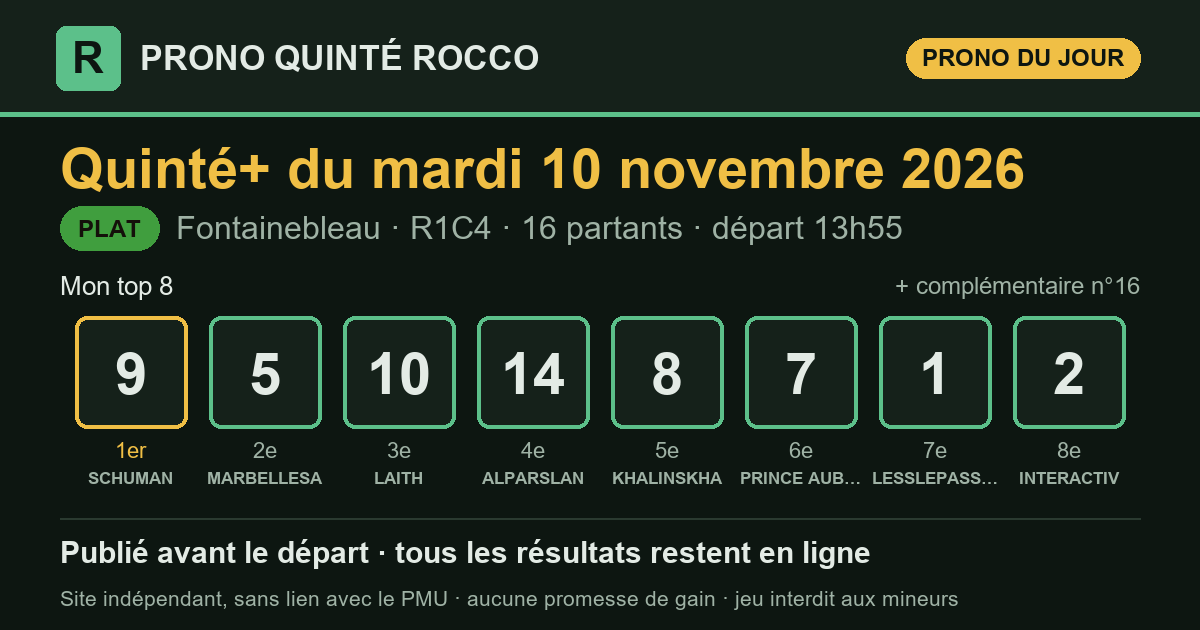
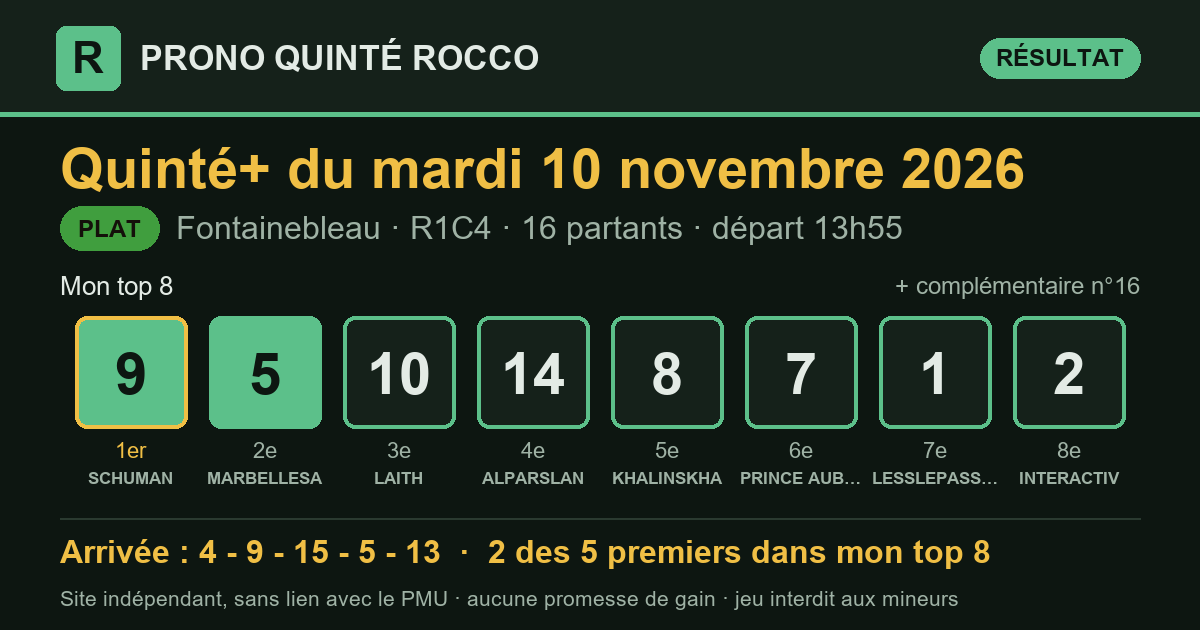
Résultat du Quinté+ 2026-11-10 Fontainebleau R1C4 — publié le 10/11/2026 14:07 (heure de Paris)

Changed region(s): [[0.0308, 0.8444, 0.8325, 0.9048], [0.0617, 0.4825, 0.2775, 0.6937], [0.74, 0.0603, 0.9558, 0.1508]]

diff --git a/index.html b/index.html
@@ -16,7 +16,7 @@
 <meta property="og:title" content="Pronostics Quinté+ et e-Super Pick5 du mardi 10 novembre 2026 — Prono Quinté Rocco">
 <meta property="og:description" content="Pronostics Quinté+ et e-Super Pick5 du jour : mes top 8, publiés avant le départ, puis tous les résultats et le rendement réel.">
 <meta property="og:url" content="https://prono-quinte-rocco.fr/">
-<meta property="og:image" content="https://prono-quinte-rocco.fr/partage/jour-2026-11-10.png?v=9b9553a0">
+<meta property="og:image" content="https://prono-quinte-rocco.fr/partage/jour-2026-11-10.png?v=c3132212">
 <meta property="og:image:type" content="image/png">
 <meta property="og:image:width" content="1200">
 <meta property="og:image:height" content="630">
@@ -32,7 +32,7 @@
 <div class="jeux j-quinte" role="navigation" aria-label="Choix du jeu"><a class="jeu jeu-quinte actif" href="index.html" aria-current="true">Quinté+</a><a class="jeu jeu-sp5" href="superpick5.html">e-Super Pick5<small>entre 17 h et 19 h</small></a></div>
 <main>
 <section class="une" aria-labelledby="t-jour">
-  <p class="surtitre">Quinté+ du jour</p>
+  <p class="surtitre">Dernier Quinté+</p>
   <h1 id="t-jour">Le prono du Quinté+, résultats compris</h1>
   <p class="chapo">Chaque matin, j'étudie les partants du Quinté+ avec le logiciel que
   j'ai conçu, selon ma propre méthode, qu'une intelligence artificielle m'aide à
@@ -43,10 +43,13 @@
   <p class="meta">Fontainebleau · <strong>R1C4</strong> · 16 partants · <span class="lisib">lisibilité <span class="note" aria-label="note 2 sur 5" title="lisibilité 2/5 : course ouverte"><i class="on"></i><i class="on"></i><i class=""></i><i class=""></i><i class=""></i></span> 2/5</span></p>
   <div class="zone-prono">
     <h3 class="zone-titre">Mon top 8</h3>
-    <ol class="partants" aria-label="Mon top 8"><li><span class="rang">1<sup>er</sup></span><span class="tapis ">9</span><span class="nom">SCHUMAN</span></li><li><span class="rang">2<sup>e</sup></span><span class="tapis ">5</span><span class="nom">MARBELLESA</span></li><li><span class="rang">3<sup>e</sup></span><span class="tapis ">10</span><span class="nom">LAITH</span></li><li><span class="rang">4<sup>e</sup></span><span class="tapis ">14</span><span class="nom">ALPARSLAN</span></li><li><span class="rang">5<sup>e</sup></span><span class="tapis ">8</span><span class="nom">KHALINSKHA</span></li><li><span class="rang">6<sup>e</sup></span><span class="tapis ">7</span><span class="nom">PRINCE AUBOIS</span></li><li><span class="rang">7<sup>e</sup></span><span class="tapis ">1</span><span class="nom">LESSLEPASSER</span></li><li><span class="rang">8<sup>e</sup></span><span class="tapis ">2</span><span class="nom">INTERACTIV</span></li><li><span class="rang">compl.</span><span class="tapis creux">16</span><span class="nom">FATA MORGANA</span></li></ol>
+    <ol class="partants" aria-label="Mon top 8"><li><span class="rang">1<sup>er</sup></span><span class="tapis plein">9</span><span class="nom">SCHUMAN</span></li><li><span class="rang">2<sup>e</sup></span><span class="tapis plein">5</span><span class="nom">MARBELLESA</span></li><li><span class="rang">3<sup>e</sup></span><span class="tapis ">10</span><span class="nom">LAITH</span></li><li><span class="rang">4<sup>e</sup></span><span class="tapis ">14</span><span class="nom">ALPARSLAN</span></li><li><span class="rang">5<sup>e</sup></span><span class="tapis ">8</span><span class="nom">KHALINSKHA</span></li><li><span class="rang">6<sup>e</sup></span><span class="tapis ">7</span><span class="nom">PRINCE AUBOIS</span></li><li><span class="rang">7<sup>e</sup></span><span class="tapis ">1</span><span class="nom">LESSLEPASSER</span></li><li><span class="rang">8<sup>e</sup></span><span class="tapis ">2</span><span class="nom">INTERACTIV</span></li><li><span class="rang">compl.</span><span class="tapis creux">16</span><span class="nom">FATA MORGANA</span></li></ol>
     <div class="pied-carte"><span>Analysé le 10/11 à 10:03 · en ligne le 10/11 à 10:09 · départ à 13:55 (heure de Paris)</span><span><a href="quinte/2026-11-10.html">Détail de la course</a></span></div>
   </div>
-  <div class="zone-arrivee attente"><p>L'arrivée officielle s'affichera ici après la course.</p></div>
+  <div class="zone-arrivee">
+    <div class="zone-tete"><h3 class="zone-titre">Arrivée officielle</h3><span class="etat non">2 des 5 premiers dans mon top 8</span><span class="etat place">mon 1er (n°9) : placé</span></div>
+    <ol class="partants" aria-label="Arrivée officielle"><li><span class="rang">1<sup>er</sup></span><span class="tapis hors">4</span><span class="nom">MISTER CHANG</span></li><li><span class="rang">2<sup>e</sup></span><span class="tapis plein">9</span><span class="nom">SCHUMAN</span></li><li><span class="rang">3<sup>e</sup></span><span class="tapis hors">15</span><span class="nom">PAINTELLO</span></li><li><span class="rang">4<sup>e</sup></span><span class="tapis plein">5</span><span class="nom">MARBELLESA</span></li><li><span class="rang">5<sup>e</sup></span><span class="tapis hors">13</span><span class="nom">ZAHARA</span></li></ol>
+  </div>
 </article>
 </section>
 <section class="suivre" aria-label="Suivre et soutenir">
@@ -76,7 +79,7 @@
 </section>
 <section class="bilan" aria-labelledby="t-bilan">
   <h2 id="t-bilan">Mon bilan depuis le 8 septembre 2026</h2>
-  <div class="tableau chiffres"><div class="case"><span class="gros ">73 %</span><span class="lib">des arrivants trouvés dans mon top 8</span><span class="ref">un top 8 tiré au hasard : 51 %</span></div><div class="case"><span class="gros ">89 %</span><span class="lib">des gagnants présents dans mon top 8</span><span class="ref"></span></div><div class="case"><span class="gros ">50 %</span><span class="lib">mon 1er placé</span><span class="ref">sur 62 Quintés</span></div><div class="case"><span class="gros perte">0,92 €</span><span class="lib">rendus pour 1 € joué placé sur mon 1er</span><span class="ref">rapports officiels PMU</span></div><div class="case"><span class="gros perte">0,44 €</span><span class="lib">rendus pour 1 € joué en Quinté+ combiné sur mon top 8</span><span class="ref">56 combinaisons, rapports PMU.fr, sur 62 Quintés</span></div></div>
+  <div class="tableau chiffres"><div class="case"><span class="gros ">73 %</span><span class="lib">des arrivants trouvés dans mon top 8</span><span class="ref">un top 8 tiré au hasard : 51 %</span></div><div class="case"><span class="gros ">87 %</span><span class="lib">des gagnants présents dans mon top 8</span><span class="ref"></span></div><div class="case"><span class="gros ">50 %</span><span class="lib">mon 1er placé</span><span class="ref">sur 62 Quintés</span></div><div class="case"><span class="gros perte">0,92 €</span><span class="lib">rendus pour 1 € joué placé sur mon 1er</span><span class="ref">rapports officiels PMU</span></div><div class="case"><span class="gros perte">0,44 €</span><span class="lib">rendus pour 1 € joué en Quinté+ combiné sur mon top 8</span><span class="ref">56 combinaisons, rapports PMU.fr, sur 63 Quintés</span></div></div>
   <p class="avertissement">Moins de 1 € rendu pour 1 € joué : suivre mon prono à la lettre fait <strong>perdre de l'argent</strong> sur cette période. Il sert à analyser une course, pas à promettre un gain.</p>
 </section>
 </main>

diff --git a/quinte/2026-11-10.html b/quinte/2026-11-10.html
@@ -16,7 +16,7 @@
 <meta property="og:title" content="Pronostic Quinté+ du mardi 10 novembre 2026 à Fontainebleau — Prono Quinté Rocco">
 <meta property="og:description" content="Prono Quinté+ du mardi 10 novembre 2026 (Fontainebleau) : mon top 8, l&#x27;arrivée officielle et les rapports PMU.fr.">
 <meta property="og:url" content="https://prono-quinte-rocco.fr/quinte/2026-11-10.html">
-<meta property="og:image" content="https://prono-quinte-rocco.fr/partage/2026-11-10.png?v=da04b2be">
+<meta property="og:image" content="https://prono-quinte-rocco.fr/partage/2026-11-10.png?v=8f2835ee">
 <meta property="og:image:type" content="image/png">
 <meta property="og:image:width" content="1200">
 <meta property="og:image:height" content="630">
@@ -36,15 +36,25 @@
   <h1>Pronostic Quinté+ du mardi 10 novembre 2026</h1>
   <p class="chapo">Fontainebleau · R1C4 · Plat · 16 partants</p>
   <article class="carte-course">
-  <div class="tete"><h2>Mon prono</h2><span class="type t-plat">Plat</span></div>
+  <div class="tete"><h2>Mon prono et l&#x27;arrivée officielle</h2><span class="type t-plat">Plat</span></div>
   <p class="meta">Fontainebleau · <strong>R1C4</strong> · 16 partants · <span class="lisib">lisibilité <span class="note" aria-label="note 2 sur 5" title="lisibilité 2/5 : course ouverte"><i class="on"></i><i class="on"></i><i class=""></i><i class=""></i><i class=""></i></span> 2/5</span></p>
   <div class="zone-prono">
     <h3 class="zone-titre">Mon top 8</h3>
-    <ol class="partants" aria-label="Mon top 8"><li><span class="rang">1<sup>er</sup></span><span class="tapis ">9</span><span class="nom">SCHUMAN</span></li><li><span class="rang">2<sup>e</sup></span><span class="tapis ">5</span><span class="nom">MARBELLESA</span></li><li><span class="rang">3<sup>e</sup></span><span class="tapis ">10</span><span class="nom">LAITH</span></li><li><span class="rang">4<sup>e</sup></span><span class="tapis ">14</span><span class="nom">ALPARSLAN</span></li><li><span class="rang">5<sup>e</sup></span><span class="tapis ">8</span><span class="nom">KHALINSKHA</span></li><li><span class="rang">6<sup>e</sup></span><span class="tapis ">7</span><span class="nom">PRINCE AUBOIS</span></li><li><span class="rang">7<sup>e</sup></span><span class="tapis ">1</span><span class="nom">LESSLEPASSER</span></li><li><span class="rang">8<sup>e</sup></span><span class="tapis ">2</span><span class="nom">INTERACTIV</span></li><li><span class="rang">compl.</span><span class="tapis creux">16</span><span class="nom">FATA MORGANA</span></li></ol>
+    <ol class="partants" aria-label="Mon top 8"><li><span class="rang">1<sup>er</sup></span><span class="tapis plein">9</span><span class="nom">SCHUMAN</span></li><li><span class="rang">2<sup>e</sup></span><span class="tapis plein">5</span><span class="nom">MARBELLESA</span></li><li><span class="rang">3<sup>e</sup></span><span class="tapis ">10</span><span class="nom">LAITH</span></li><li><span class="rang">4<sup>e</sup></span><span class="tapis ">14</span><span class="nom">ALPARSLAN</span></li><li><span class="rang">5<sup>e</sup></span><span class="tapis ">8</span><span class="nom">KHALINSKHA</span></li><li><span class="rang">6<sup>e</sup></span><span class="tapis ">7</span><span class="nom">PRINCE AUBOIS</span></li><li><span class="rang">7<sup>e</sup></span><span class="tapis ">1</span><span class="nom">LESSLEPASSER</span></li><li><span class="rang">8<sup>e</sup></span><span class="tapis ">2</span><span class="nom">INTERACTIV</span></li><li><span class="rang">compl.</span><span class="tapis creux">16</span><span class="nom">FATA MORGANA</span></li></ol>
     <div class="pied-carte"><span>Analysé le 10/11 à 10:03 · en ligne le 10/11 à 10:09 · départ à 13:55 (heure de Paris)</span><span></span></div>
   </div>
-  <div class="zone-arrivee attente"><p>L'arrivée officielle s'affichera ici après la course.</p></div>
+  <div class="zone-arrivee">
+    <div class="zone-tete"><h3 class="zone-titre">Arrivée officielle</h3><span class="etat non">2 des 5 premiers dans mon top 8</span><span class="etat place">mon 1er (n°9) : placé</span></div>
+    <ol class="partants" aria-label="Arrivée officielle"><li><span class="rang">1<sup>er</sup></span><span class="tapis hors">4</span><span class="nom">MISTER CHANG</span></li><li><span class="rang">2<sup>e</sup></span><span class="tapis plein">9</span><span class="nom">SCHUMAN</span></li><li><span class="rang">3<sup>e</sup></span><span class="tapis hors">15</span><span class="nom">PAINTELLO</span></li><li><span class="rang">4<sup>e</sup></span><span class="tapis plein">5</span><span class="nom">MARBELLESA</span></li><li><span class="rang">5<sup>e</sup></span><span class="tapis hors">13</span><span class="nom">ZAHARA</span></li></ol>
+  </div>
 </article>
+<section class="carte-course rapports" aria-labelledby="t-rap">
+  <div class="tete"><h2 id="t-rap">Les rapports</h2></div>
+  <div class="deux">
+    <div><h3>Ce qu'aurait rendu mon prono</h3><dl class="kv"><dt>1 € placé sur mon 1er (n°9)</dt><dd>rapport manquant</dd><dt>1 € gagnant sur mon 1er</dt><dd>rapport manquant</dd><dt>Quinté+ combiné sur mon top 8 (mise 112 €)</dt><dd class="perte">0,00 €</dd><dt>dont</dt><dd>aucun gain</dd></dl></div>
+    <div><h3>Rapports officiels</h3><dl class="kv"><dt>e-Quinté+ Désordre (2 €)</dt><dd>12 488,40 €</dd><dt>e-Bonus 4sur5 (2 €)</dt><dd>63,80 €</dd><dt>e-Bonus 3 (2 €)</dt><dd>51,20 €</dd></dl></div>
+  </div>
+</section>
 </section>
 </main>
 <footer class="pied">

diff --git a/resultats.html b/resultats.html
@@ -49,12 +49,12 @@
     <th colspan="4" class="res g-res">Le résultat officiel</th></tr>
     <tr><th>Date</th><th>Course</th><th>Top 8</th><th class="c-lis">Lisibilité</th><th class="res c-arr">Arrivée</th>
     <th class="res">Trouvés</th><th class="res">Mon 1er</th><th class="res mont">Quinté+ top 8<br><small>(mise 112 €)</small></th></tr></thead>
-    <tbody><tr class="attente">
+    <tbody><tr>
   <td class="c-date"><a href="quinte/2026-11-10.html">10/11</a></td>
   <td class="c-course">Fontainebleau<br><span class="meta">R1C4</span><span class="type t-plat petit">Plat</span></td>
-  <td class="c-top8" data-label="Mon top 8"><div class="rangee"><span class="tapis petit">9</span><span class="tapis petit">5</span><span class="tapis petit">10</span><span class="tapis petit">14</span><span class="tapis petit">8</span><span class="tapis petit">7</span><span class="tapis petit">1</span><span class="tapis petit">2</span></div></td>
+  <td class="c-top8" data-label="Mon top 8"><div class="rangee"><span class="tapis plein petit">9</span><span class="tapis plein petit">5</span><span class="tapis petit">10</span><span class="tapis petit">14</span><span class="tapis petit">8</span><span class="tapis petit">7</span><span class="tapis petit">1</span><span class="tapis petit">2</span></div></td>
   <td class="c-lis" data-label="Lisibilité"><span class="note" aria-label="note 2 sur 5" title="lisibilité 2/5 : course ouverte"><i class="on"></i><i class="on"></i><i class=""></i><i class=""></i><i class=""></i></span> 2/5</td>
-  <td class="res c-arr" data-label="Arrivée"><span class="etat attente">en attente</span></td><td class="res num c-trouves" data-label="Trouvés">—</td><td class="res c-premier" data-label="Mon 1er"><span class="etat attente">—</span></td><td class="res mont c-mont" data-label="Quinté+ top 8 (mise 112 €)">—</td>
+  <td class="res c-arr" data-label="Arrivée"><div class="rangee"><span class="tapis hors petit" title="1er">4</span><span class="tapis plein petit" title="2e">9</span><span class="tapis hors petit" title="3e">15</span><span class="tapis plein petit" title="4e">5</span><span class="tapis hors petit" title="5e">13</span></div></td><td class="res num c-trouves" data-label="Trouvés">2/5</td><td class="res c-premier" data-label="Mon 1er"><span class="etat place">placé</span></td><td class="res mont c-mont perte" data-label="Quinté+ top 8 (mise 112 €)" title="perte nette : 112,00 €">0,00 €</td>
 </tr><tr>
   <td class="c-date"><a href="quinte/2026-11-09.html">09/11</a></td>
   <td class="c-course">Bordeaux-Le-Bouscat<br><span class="meta">R1C2</span><span class="type t-attele petit">Attelé</span></td>
@@ -432,7 +432,7 @@
 </section>
 <section class="bilan" aria-labelledby="t-bilan">
   <h2 id="t-bilan">Mon bilan depuis le 8 septembre 2026</h2>
-  <div class="tableau chiffres"><div class="case"><span class="gros ">73 %</span><span class="lib">des arrivants trouvés dans mon top 8</span><span class="ref">un top 8 tiré au hasard : 51 %</span></div><div class="case"><span class="gros ">89 %</span><span class="lib">des gagnants présents dans mon top 8</span><span class="ref"></span></div><div class="case"><span class="gros ">50 %</span><span class="lib">mon 1er placé</span><span class="ref">sur 62 Quintés</span></div><div class="case"><span class="gros perte">0,92 €</span><span class="lib">rendus pour 1 € joué placé sur mon 1er</span><span class="ref">rapports officiels PMU</span></div><div class="case"><span class="gros perte">0,44 €</span><span class="lib">rendus pour 1 € joué en Quinté+ combiné sur mon top 8</span><span class="ref">56 combinaisons, rapports PMU.fr, sur 62 Quintés</span></div></div>
+  <div class="tableau chiffres"><div class="case"><span class="gros ">73 %</span><span class="lib">des arrivants trouvés dans mon top 8</span><span class="ref">un top 8 tiré au hasard : 51 %</span></div><div class="case"><span class="gros ">87 %</span><span class="lib">des gagnants présents dans mon top 8</span><span class="ref"></span></div><div class="case"><span class="gros ">50 %</span><span class="lib">mon 1er placé</span><span class="ref">sur 62 Quintés</span></div><div class="case"><span class="gros perte">0,92 €</span><span class="lib">rendus pour 1 € joué placé sur mon 1er</span><span class="ref">rapports officiels PMU</span></div><div class="case"><span class="gros perte">0,44 €</span><span class="lib">rendus pour 1 € joué en Quinté+ combiné sur mon top 8</span><span class="ref">56 combinaisons, rapports PMU.fr, sur 63 Quintés</span></div></div>
   <p class="avertissement">Moins de 1 € rendu pour 1 € joué : suivre mon prono à la lettre fait <strong>perdre de l'argent</strong> sur cette période. Il sert à analyser une course, pas à promettre un gain.</p>
 </section>
 </main>

diff --git a/partants.html b/partants.html
@@ -36,7 +36,7 @@
     <p class="fiche-depart">Départ <b>13:55</b> <span>heure de Paris</span></p>
   </div>
   <p class="surtitre">Les pronostics ailleurs sur le web</p>
-  <div class="liens"><a class="lien-ext" href="https://www.turfoo.fr/programmes-courses/261110/reunion1-fontainebleau/course4-prix-roland-fougedoire/pronostics-presse/" rel="noopener" target="_blank"><b>Les pronostics de la presse →</b><span>sur Turfoo (site extérieur)</span></a><a class="lien-ext" href="https://www.geny.com/programme/2026-11-10" rel="noopener" target="_blank"><b>Partants et pronostics →</b><span>programme du jour sur Geny (site extérieur)</span></a></div>
+  <div class="liens"><a class="lien-ext" href="https://www.turfoo.fr/programmes-courses/261110/" rel="noopener" target="_blank"><b>Les pronostics de la presse →</b><span>sur Turfoo (site extérieur)</span></a><a class="lien-ext" href="https://www.geny.com/programme/2026-11-10" rel="noopener" target="_blank"><b>Partants et pronostics →</b><span>programme du jour sur Geny (site extérieur)</span></a></div>
   <div class="liste-boite"><table class="liste-partants">
     <thead><tr><th>N°</th><th>Cheval</th><th class="cote"><span class="long">Cote du matin</span><span class="court">Cote</span></th>
     <th class="ia"><span class="long">Mon prono</span><span class="court">Prono</span></th></tr></thead>
@@ -53,32 +53,32 @@
 </tr><tr>
   <td><span class="tapis petit">3</span></td>
   <td><span class="cheval">GRAND SCOOP</span><span class="sous">E.HARDOUIN · G.MOSSE (S)</span></td>
-  <td class="cote num">18,0</td>
+  <td class="cote num">17,0</td>
   <td class="ia">—</td>
 </tr><tr>
   <td><span class="tapis petit">4</span></td>
   <td><span class="cheval">MISTER CHANG</span><span class="sous">H.JOURNIAC · Y.BARBEROT (S)</span></td>
-  <td class="cote num">23,0</td>
+  <td class="cote num">24,0</td>
   <td class="ia">—</td>
 </tr><tr>
   <td><span class="tapis petit">5</span></td>
   <td><span class="cheval">MARBELLESA</span><span class="sous">C.SOUMILLON · M.DELCHER SANCHEZ</span></td>
-  <td class="cote num">7,6</td>
+  <td class="cote num">6,8</td>
   <td class="ia"><span class="etat place">2<sup>e</sup></span></td>
 </tr><tr>
   <td><span class="tapis petit">6</span></td>
   <td><span class="cheval">WAZIERS</span><span class="sous">R.THOMAS · F.FORESI</span></td>
-  <td class="cote num">26,0</td>
+  <td class="cote num">30,0</td>
   <td class="ia">—</td>
 </tr><tr>
   <td><span class="tapis petit">7</span></td>
   <td><span class="cheval">PRINCE AUBOIS</span><span class="sous">T.TRULLIER · MME S.PENOT</span></td>
-  <td class="cote num">10,0</td>
+  <td class="cote num">13,0</td>
   <td class="ia"><span class="etat place">6<sup>e</sup></span></td>
 </tr><tr>
   <td><span class="tapis petit">8</span></td>
   <td><span class="cheval">KHALINSKHA</span><span class="sous">A.ORANI · J.REYNIER (S)</span></td>
-  <td class="cote num">14,0</td>
+  <td class="cote num">13,0</td>
   <td class="ia"><span class="etat place">5<sup>e</sup></span></td>
 </tr><tr>
   <td><span class="tapis petit">9</span></td>
@@ -88,7 +88,7 @@
 </tr><tr>
   <td><span class="tapis petit">10</span></td>
   <td><span class="cheval">LAITH</span><span class="sous">A.LEMAITRE · J.REYNIER (S)</span></td>
-  <td class="cote num">11,0</td>
+  <td class="cote num">13,0</td>
   <td class="ia"><span class="etat place">3<sup>e</sup></span></td>
 </tr><tr>
   <td><span class="tapis petit">11</span></td>
@@ -103,7 +103,7 @@
 </tr><tr>
   <td><span class="tapis petit">13</span></td>
   <td><span class="cheval">ZAHARA</span><span class="sous">A.HAMELIN · M.DELCHER SANCHEZ</span></td>
-  <td class="cote num">21,0</td>
+  <td class="cote num">27,0</td>
   <td class="ia">—</td>
 </tr><tr>
   <td><span class="tapis petit">14</span></td>
@@ -113,17 +113,17 @@
 </tr><tr>
   <td><span class="tapis petit">15</span></td>
   <td><span class="cheval">PAINTELLO</span><span class="sous">P.REMOUE · MME A.BUDKA</span></td>
-  <td class="cote num">36,0</td>
+  <td class="cote num">37,0</td>
   <td class="ia">—</td>
 </tr><tr>
   <td><span class="tapis petit">16</span></td>
   <td><span class="cheval">FATA MORGANA</span><span class="sous">J.CLAUDIC · F.BRESSON (S)</span></td>
-  <td class="cote num">14,0</td>
+  <td class="cote num">10,0</td>
   <td class="ia"><span class="etat place">compl.</span></td>
 </tr></tbody>
   </table></div>
   <p class="meta">La colonne « Mon prono » donne le rang de chaque cheval dans mon top 8, tel qu&#x27;il est publié sur ce site. Sous chaque cheval : jockey · entraîneur. Partants et cotes : programme
-  officiel du PMU, lu le 10/11 à 10:19 (heure de Paris). NP = non-partant.</p>
+  officiel du PMU, lu le 10/11 à 14:07 (heure de Paris). NP = non-partant.</p>
 </section>
 </main>
 <footer class="pied">

diff --git a/superpick5-partants.html b/superpick5-partants.html
@@ -43,67 +43,67 @@
     <tbody><tr>
   <td><span class="tapis petit">1</span></td>
   <td><span class="cheval">EXPRESS LOVE (SWE)</span><span class="sous">M. GOETZ · A. LOVDAL</span></td>
-  <td class="cote num">4,3</td>
+  <td class="cote num">15,0</td>
   <td class="ia"><span class="etat place">4<sup>e</sup></span></td>
 </tr><tr>
   <td><span class="tapis petit">2</span></td>
   <td><span class="cheval">JOKER DE LA BRETTE</span><span class="sous">P. OLLITRAULT · N. BINET</span></td>
-  <td class="cote num">34,0</td>
+  <td class="cote num">42,0</td>
   <td class="ia">—</td>
 </tr><tr>
   <td><span class="tapis petit">3</span></td>
   <td><span class="cheval">JALENZA DU BOCAGE</span><span class="sous">A. GENDROT · M. SASSIER</span></td>
-  <td class="cote num">24,0</td>
+  <td class="cote num">13,0</td>
   <td class="ia"><span class="etat place">5<sup>e</sup></span></td>
 </tr><tr>
   <td><span class="tapis petit">4</span></td>
   <td><span class="cheval">DEVIL OP</span><span class="sous">F. OUVRIE · Vitale CIOTOLA</span></td>
-  <td class="cote num">27,0</td>
+  <td class="cote num">31,0</td>
   <td class="ia">—</td>
 </tr><tr>
   <td><span class="tapis petit">5</span></td>
   <td><span class="cheval">JAZZ SESSION</span><span class="sous">A.G. MAILLARD · A.G. MAILLARD</span></td>
-  <td class="cote num">24,0</td>
+  <td class="cote num">13,0</td>
   <td class="ia">—</td>
 </tr><tr>
   <td><span class="tapis petit">6</span></td>
   <td><span class="cheval">JALACTIC</span><span class="sous">TH. BELLET · B. MARIE</span></td>
-  <td class="cote num">56,0</td>
+  <td class="cote num">51,0</td>
   <td class="ia">—</td>
 </tr><tr>
   <td><span class="tapis petit">7</span></td>
   <td><span class="cheval">ORLANDO YOUNG</span><span class="sous">M.T. GUNDERSEN · G.V. GUNDERSEN</span></td>
-  <td class="cote num">7,4</td>
+  <td class="cote num">20,0</td>
   <td class="ia"><span class="etat place">6<sup>e</sup></span></td>
 </tr><tr>
   <td><span class="tapis petit">8</span></td>
   <td><span class="cheval">JAPPELOU</span><span class="sous">CH. HESLOUIN · CH. HESLOUIN</span></td>
-  <td class="cote num">37,0</td>
+  <td class="cote num">39,0</td>
   <td class="ia">—</td>
 </tr><tr>
   <td><span class="tapis petit">9</span></td>
   <td><span class="cheval">JASMINE DE GREZ</span><span class="sous">ARNAUD DESMOTTES · ARNAUD DESMOTTES</span></td>
-  <td class="cote num">18,0</td>
+  <td class="cote num">12,0</td>
   <td class="ia"><span class="etat place">compl.</span></td>
 </tr><tr>
   <td><span class="tapis petit">10</span></td>
   <td><span class="cheval">JIOSCO DES CHASSES</span><span class="sous">T. THURMES · K. VANDEMOORTELE</span></td>
-  <td class="cote num">6,7</td>
+  <td class="cote num">9,7</td>
   <td class="ia"><span class="etat place">2<sup>e</sup></span></td>
 </tr><tr>
   <td><span class="tapis petit">11</span></td>
   <td><span class="cheval">HIPPARIS</span><span class="sous">J.F. SENET · J.F. SENET</span></td>
-  <td class="cote num">56,0</td>
+  <td class="cote num">21,0</td>
   <td class="ia"><span class="etat place">8<sup>e</sup></span></td>
 </tr><tr>
   <td><span class="tapis petit">12</span></td>
   <td><span class="cheval">JOURNEY OF DREAM</span><span class="sous">M. IONESCU · R. DERIEUX</span></td>
-  <td class="cote num">36,0</td>
+  <td class="cote num">70,0</td>
   <td class="ia">—</td>
 </tr><tr>
   <td><span class="tapis petit">13</span></td>
   <td><span class="cheval">JOSS AIMEF</span><span class="sous">P.Y. VERVA · P.Y. VERVA</span></td>
-  <td class="cote num">9,4</td>
+  <td class="cote num">8,2</td>
   <td class="ia"><span class="etat place">3<sup>e</sup></span></td>
 </tr><tr class="np">
   <td><span class="tapis petit">14</span></td>
@@ -113,17 +113,17 @@
 </tr><tr>
   <td><span class="tapis petit">15</span></td>
   <td><span class="cheval">IDEAL BOY</span><span class="sous">A. BOURGOIN-TIMBERT · Y. DREUX</span></td>
-  <td class="cote num">52,0</td>
+  <td class="cote num">20,0</td>
   <td class="ia"><span class="etat place">7<sup>e</sup></span></td>
 </tr><tr>
   <td><span class="tapis petit">16</span></td>
   <td><span class="cheval">JAZZ DE PADD</span><span class="sous">M. ABRIVARD · M. ABRIVARD</span></td>
-  <td class="cote num">4,1</td>
+  <td class="cote num">2,6</td>
   <td class="ia"><span class="etat place">1<sup>er</sup></span></td>
 </tr></tbody>
   </table></div>
   <p class="meta">La colonne « Mon prono » donne le rang de chaque cheval dans mon top 8, tel qu&#x27;il est publié sur ce site. Sous chaque cheval : driver · entraîneur. Partants et cotes : programme
-  officiel du PMU, lu le 10/11 à 10:19 (heure de Paris). NP = non-partant.</p>
+  officiel du PMU, lu le 10/11 à 14:07 (heure de Paris). NP = non-partant.</p>
 </section>
 </main>
 <footer class="pied">
